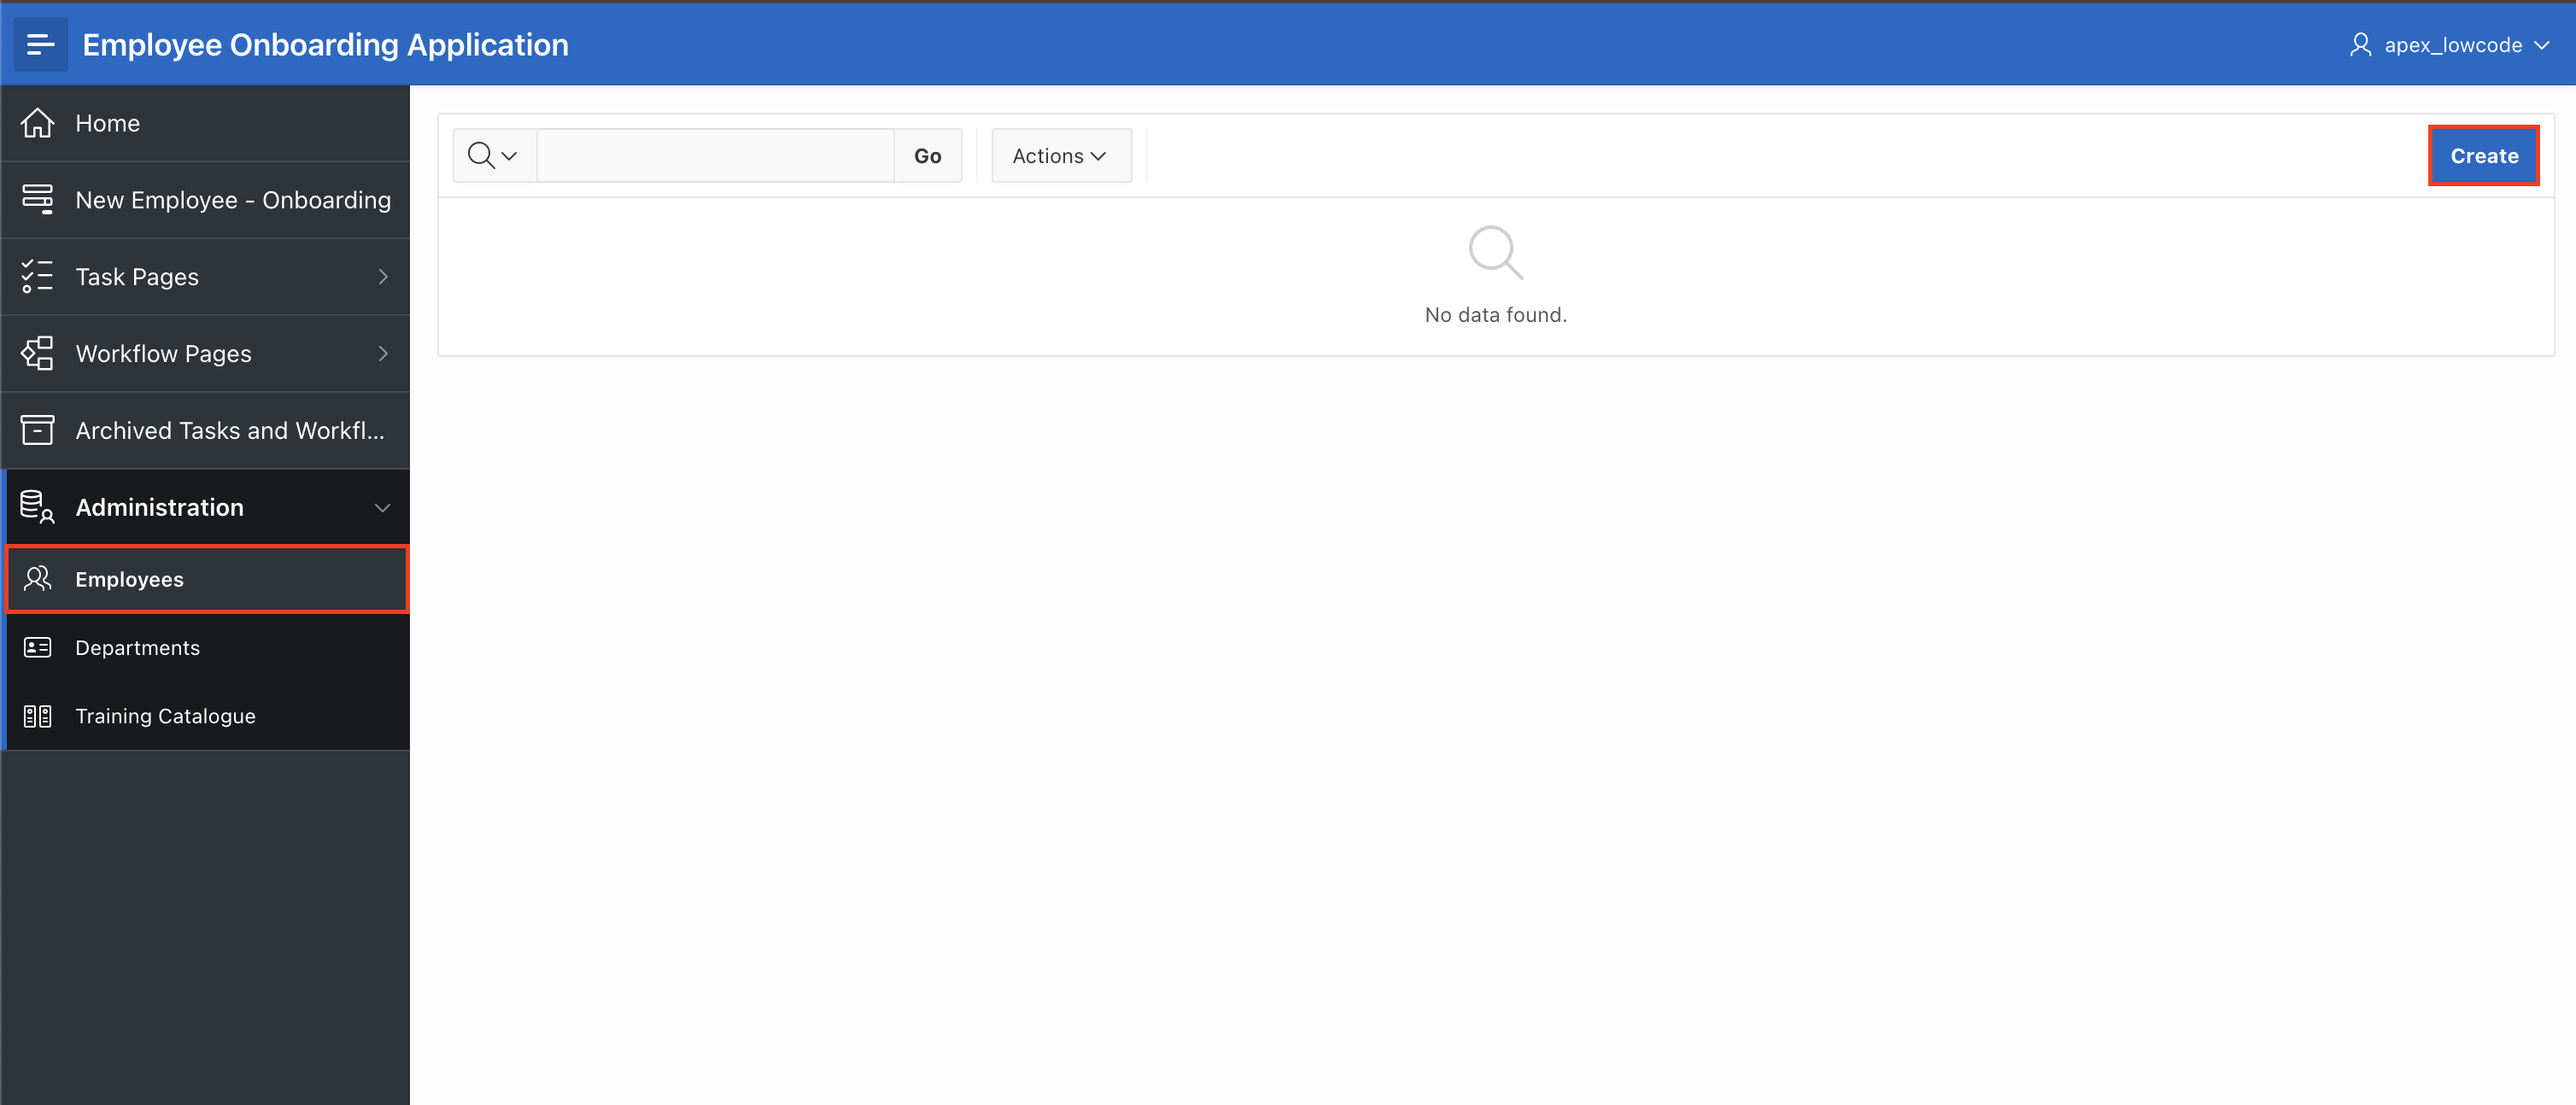
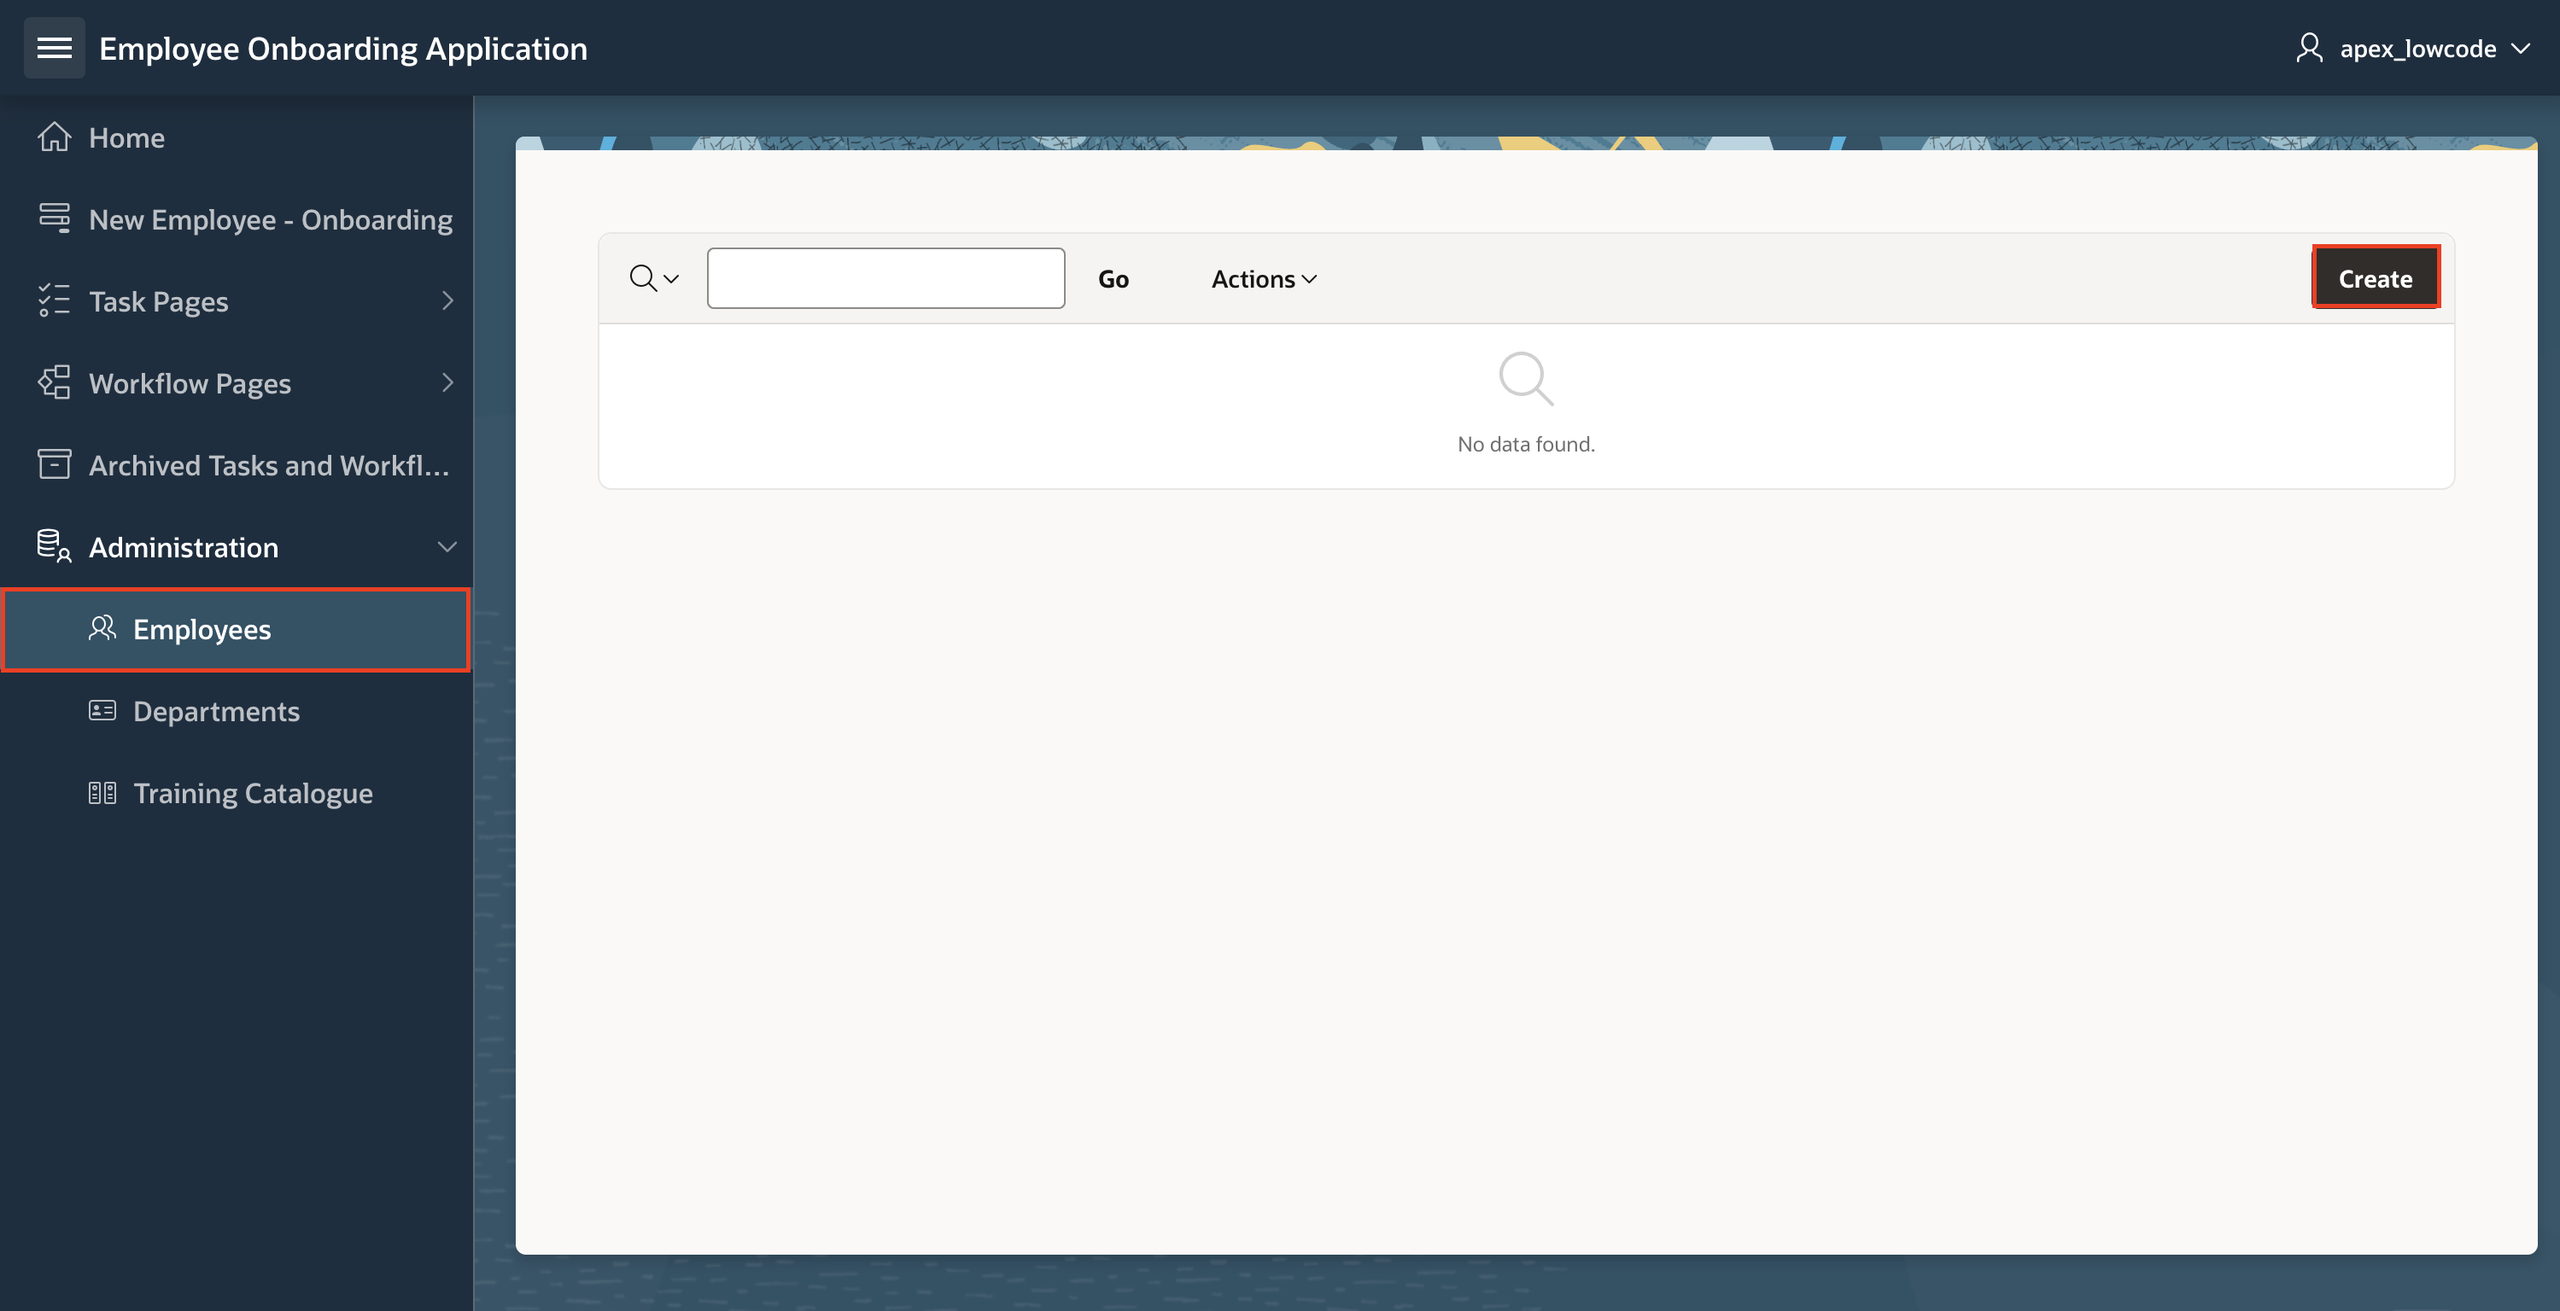
emp onboardin

diff --git a/employee-onboarding/6-create-workflow-pages/create-workflow-pages.md b/employee-onboarding/6-create-workflow-pages/create-workflow-pages.md
@@ -45,7 +45,7 @@ Now that the Workflow is created, let us create the page that HR will use to cre
 
 3. Select **Form**.
 
-    ![select blank page](./images/select-form-page.png " ")
+    ![select blank page](./images/select-form-page.png =60%x*)
 
 4. For Page Attributes, enter/select the following:
 
@@ -57,12 +57,12 @@ Now that the Workflow is created, let us create the page that HR will use to cre
 
      Click **Next**.
 
-    ![Configure form page](./images/form-details.png " ")
+    ![Configure form page](./images/form-details.png =60%x*)
 
 5. Select Primary key column 1 : **EMPLOYEE_ID (Number)**.
     Click **Create Page**.
 
-    ![Configure form page](./images/primary-key.png " ")
+    ![Configure form page](./images/primary-key.png =60%x*)
 
 6. In the Page Designer, in the rendering tree, select **New Employee - Onboarding** region and in the property editor, make the following changes:
 
@@ -195,7 +195,7 @@ In this task you will create a page to create an email id and allocate laptop to
 
     Click **Create Page**.
 
-    ![create blank page tasks](./images/select-blank.png " ")
+    ![create blank page tasks](./images/select-blank.png =60%x*)
 
 4. In the rendering tree, right click on **Components** and select **Create Region**.
 
@@ -490,7 +490,7 @@ In this task you will create a page to create an email id and allocate laptop to
 
 6. Select **Unified Task List**.
 
-    ![Select Unified Task List](./images/select-unified-tasks.png " ")
+    ![Select Unified Task List](./images/select-unified-tasks.png =60%x*)
 
 7. Specify the following page attributes:
 
@@ -500,7 +500,7 @@ In this task you will create a page to create an email id and allocate laptop to
 
     Click **Create Page**.
 
-    ![Create tasks initiated by me](./images/create-initiatedbyme-tasks.png " ")
+    ![Create tasks initiated by me](./images/create-initiatedbyme-tasks.png =40%x*)
 
 8. Click **Save**.
 
@@ -747,7 +747,7 @@ Our Application has three Task Definitions -  Appointment Request, Invoice Reque
 
 21. Click **Save**.
 
-## Task 7: Create the Workflows Page
+## Task 7: Create Initiated By Me Workflow Page
 
 Finally, we need the page that the HR will use to monitor the employee onboarding workflow.
 
@@ -759,7 +759,7 @@ We use the Workflow Console and Details pages with **Initiated By Me** report co
 
 2. Select **Workflow Console**.
 
-    ![configure workflow attr](./images/create-workflow-console.png " ")
+    ![configure workflow attr](./images/create-workflow-console.png =60%x*)
 
 3. In the Create Workflow Console wizard, enter/select the following:
 
@@ -777,13 +777,13 @@ We use the Workflow Console and Details pages with **Initiated By Me** report co
 
     Click **Create Page**.
 
-    ![configure workflow attr](./images/config-workflow-console.png " ")
+    ![configure workflow attr](./images/config-workflow-console.png =60%x*)
 
 4. Save the page.
 
     ![Save workflow ](./images/save-workflow-console.png " ")
 
-## Task 8: Create the Workflows Page - My Workflows
+## Task 8: Create My Workflows Page
 
 1. To create the Workflow Console and Details pages, click **+ (Plus) Icon** on the right-above corner of the page designer. Then, select **Page** from the drop-down., select **Create Page**.
 
@@ -791,7 +791,7 @@ We use the Workflow Console and Details pages with **Initiated By Me** report co
 
 2. Select **Workflow Console**.
 
-    ![configure workflow attr](./images/create-workflow-console.png " ")
+    ![configure workflow attr](./images/create-workflow-console.png =60%x*)
 
 3. In the Create Workflow Console wizard, enter/select the following:
 
@@ -807,7 +807,7 @@ We use the Workflow Console and Details pages with **Initiated By Me** report co
 
     Click **Create Page**.
 
-    ![configure workflow attr](./images/config-workflow-console2.png " ")
+    ![configure workflow attr](./images/config-workflow-console2.png =50%x*)
 
 4. Save and Run the application and navigate through different pages to demonstrate the workflow, tasks, and feedback functionalities.
 
@@ -868,6 +868,83 @@ We use the Workflow Console and Details pages with **Initiated By Me** report co
 9. Now, select **Administration** list entry and set the Sequence: **150** and select **Apply Changes**.
 
     ![Set Admin Entry](./images/admin-entry.png " ")
+
+## Task 10: Improve UI (Optional)
+
+1. Navigate to **Shared Components**.
+
+    ![Shared component](./images/shared-compon.png " ")
+
+2. Select **Home**.
+
+    ![Select Home page](./images/home-page.png " ")
+
+3. In the rendering tree, right click on **Body** and select **Create Region**.
+
+    ![Create New Region](./images/create-nav-region.png " ")
+
+4. In the property editor, enter/select the following:
+
+    - Under Identification:
+
+        - Name: **Navigation Menu List**
+
+        - Type: **List**
+
+    - Source > List: **Navigation Menu**
+
+    - Appearance > Template: **Blank with Attributes (No Grid)**
+
+    ![Navigation Menu](./images/nav-props.png " ")
+
+5. Under **Attributes**, select the following:
+
+    - Under Apperance:
+
+        - List Template: **Cards**
+
+        - Template Options: select the following in the pop-up box:
+
+            - General: Apply Theme Colors **Check**
+            - Style: **Block**
+            - Icons: **Display Icons**
+            - Body Text: **Hidden**
+
+    ![Navigation Menu attributes](./images/nav-props2.png " ")
+
+6. Click **Save and Run** the page.
+
+    ![Save & Run Page](./images/run-page.png " ")
+
+7. Login to the application
+
+    ![Login to app](./images/login-app.png =50%x*)
+
+8. In the **Developer Tool Bar**, select **Customize** and click **Theme Roller**.
+
+    ![Theme roller](./images/theme-roller.png " ")
+
+9. In the Theme Roller, select the following:
+
+    - Theme > Select Theme: **Redwood Light**
+
+    - Under Redwood Options:
+        - Pillar: **Ocean**
+        - Layout: **Floating**
+
+    - Under Appearance:
+        - Header: **Pillar**
+        - Navigation: **Pillar**
+        - Body Header: **Dark**
+        - Body Background: **Dark**
+
+    And click **Save**.
+
+    ![Theme roller](./images/theme-roller2.png =35%x*)
+
+10. Click **Save**.
+
+    ![Theme roller](./images/theme-roller3.png " ")
 
 ## Summary
 
